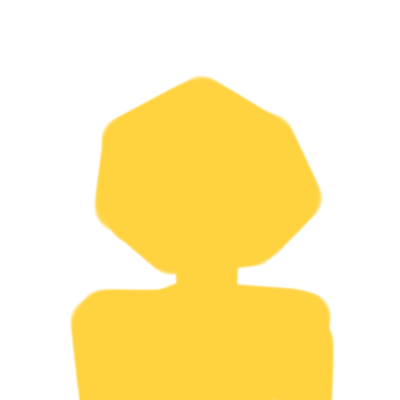
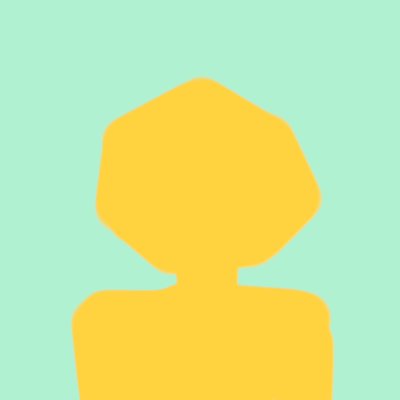
visual improvements
i made it pretty! it is done now.

it turns out we dont need a download button now that its a canvas, because user can just R click -> save image (whereas, before, this would only save the top layer)

diff --git a/index.html b/index.html
@@ -30,49 +30,53 @@
   <img src="avatarImages/eyes-glasses.png" id="eyes-glasses"class="eyes"/>
   <img src="avatarImages/eyes-intense.png" id="eyes-intense"class="eyes"/>
   <img src="avatarImages/eyes-modest.png" id="eyes-modest"class="eyes"/>
-
 </section>
 
-<section class = "menu">
-  <button type="button" onClick="createDownloadableImage()"
-  download="avatarImages/downloadableImage.png"> Download </button>
-  <button type="button" onClick="randomizeAvatar()"> Random </button>
-</section>
-
-<section>
-  <div class = "menu">
-    <div id = "bodies">
-      bodies:
-      <button type="button" onClick="toggleVisibility('body-angular');"> angular body </button>
-      <button type="button" onClick="toggleVisibility('body-ghost');"> ghost body </button>
-      <button type="button" onClick="toggleVisibility('body-purple');"> purple body </button>
-      <button type="button" onClick="toggleVisibility('body-soft');"> soft body </button>
-      <button type="button" onClick="toggleVisibility('body-waving');"> waving body </button>
-    </div>
-    <div id = "eyes">
-      eyes:
-      <button type="button" onClick="toggleVisibility('eyes-diamond');"> diamond eyes </button>
-      <button type="button" onClick="toggleVisibility('eyes-excited');"> excited eyes </button>
-      <button type="button" onClick="toggleVisibility('eyes-glasses');"> glasses eyes </button>
-      <button type="button" onClick="toggleVisibility('eyes-intense');"> intense eyes </button>
-      <button type="button" onClick="toggleVisibility('eyes-modest');"> modest eyes </button>
-    </div>
-    <div id="mouths">
-      mouths:
-      <button type="button" onClick="toggleVisibility('mouth-animal');"> modest eyes </button>
-      <button type="button" onClick="toggleVisibility('mouth-chewy');"> modest eyes </button>
-      <button type="button" onClick="toggleVisibility('mouth-jagged');"> modest eyes </button>
-      <button type="button" onClick="toggleVisibility('mouth-smile');"> modest eyes </button>
-      <button type="button" onClick="toggleVisibility('mouth-surprised');"> modest eyes </button>
-    </div>
-    <div/ id="hairstyles">
-    hair*:
-    <button type="button" onClick="toggleVisibility('hair-crown');"> modest eyes </button>
-    <button type="button" onClick="toggleVisibility('hair-curly');"> modest eyes </button>
-    <button type="button" onClick="toggleVisibility('hair-long');"> modest eyes </button>
-    <button type="button" onClick="toggleVisibility('hair-spiky');"> modest eyes </button>
-    <button type="button" onClick="toggleVisibility('hair-sprout');"> modest eyes </button>
-    <div/>
+<div class = "menu">
+  <div class="style-category" id = "bodies">
+    <span class="style-category-label">
+      body
+    </span>
+    <button type="button" onClick="toggleVisibility('body-angular');"> angular </button>
+    <button type="button" onClick="toggleVisibility('body-ghost');"> ghost </button>
+    <button type="button" onClick="toggleVisibility('body-purple');"> purple </button>
+    <button type="button" onClick="toggleVisibility('body-soft');"> soft </button>
+    <button type="button" onClick="toggleVisibility('body-waving');"> waving </button>
   </div>
-</section>
+  <div class="style-category" id="eyes">
+    <span class="style-category-label">
+      eyes
+    </span>
+    <button type="button" onClick="toggleVisibility('eyes-diamond');"> diamond </button>
+    <button type="button" onClick="toggleVisibility('eyes-excited');"> excited </button>
+    <button type="button" onClick="toggleVisibility('eyes-glasses');"> glasses </button>
+    <button type="button" onClick="toggleVisibility('eyes-intense');"> intense </button>
+    <button type="button" onClick="toggleVisibility('eyes-modest');"> modest </button>
+  </div>
+  <div class="style-category" id="mouths">
+    <span class="style-category-label">
+      mouth
+    </span>
+    <button type="button" onClick="toggleVisibility('mouth-animal');"> animal </button>
+    <button type="button" onClick="toggleVisibility('mouth-chewy');"> chewy </button>
+    <button type="button" onClick="toggleVisibility('mouth-jagged');"> jagged </button>
+    <button type="button" onClick="toggleVisibility('mouth-smile');"> smile </button>
+    <button type="button" onClick="toggleVisibility('mouth-surprised');"> surprised </button>
+  </div>
+  <div class="style-category" id="hairstyles">
+    <span class="style-category-label">
+      hair
+    </span>
+    <button type="button" onClick="toggleVisibility('hair-crown');"> crown </button>
+    <button type="button" onClick="toggleVisibility('hair-curly');"> curly </button>
+    <button type="button" onClick="toggleVisibility('hair-long');"> long </button>
+    <button type="button" onClick="toggleVisibility('hair-spiky');"> spiky </button>
+    <button type="button" onClick="toggleVisibility('hair-sprout');"> sprout </button>
+  </div>
+</div>
+
+<div class = "menu">
+  <button id="randomButton" type="button" onClick="randomizeAvatar()"> Random </button>
+</div>
+
 </html>

diff --git a/style.css b/style.css
@@ -1,5 +1,4 @@
 #avatarSection {
-  /* background-color: lightblue; */
   position: relative;
   margin: auto;
   height:400px;
@@ -19,16 +18,39 @@ canvas {
   position:absolute;
 }
 
-/* .menu {
-  margin: auto;
-} */
-
 button {
-  width: 5%;
-  padding: 10px 15px;
-  border: 0;
-  background: pink;
-  color: #fff;
+  width: 15%;
+  padding: 10px 5px;
+  border: 2px;
+  background: lightgreen;
+  color: darkgreen;
   border-radius: 5px;
-  margin: 5px 0;
+  font-family: tahoma;
+  margin:5px;
+}
+
+#randomButton {
+  background: pink;
+  display:block;
+  margin:auto;
+  color:darkred;
+}
+
+.menu {
+  display:block;
+  max-width: 700px;
+  position:relative;
+  margin:auto;
+}
+
+.style-category-label {
+  width:10%;
+  font-family: helvetica, bold;
+  font-weight: bold;
+  padding: 10px;
+}
+
+.style-category{
+  display: flex;
+  justify-content: space-between;
 }

diff --git a/avatarMaker.js b/avatarMaker.js
@@ -68,8 +68,3 @@ function randomizeAvatar() {
     redrawAvatar()
   });
 }
-
-function createDownloadableImage() {
-  console.log(avatar);
-  // TODO: canvas to image.
-}
